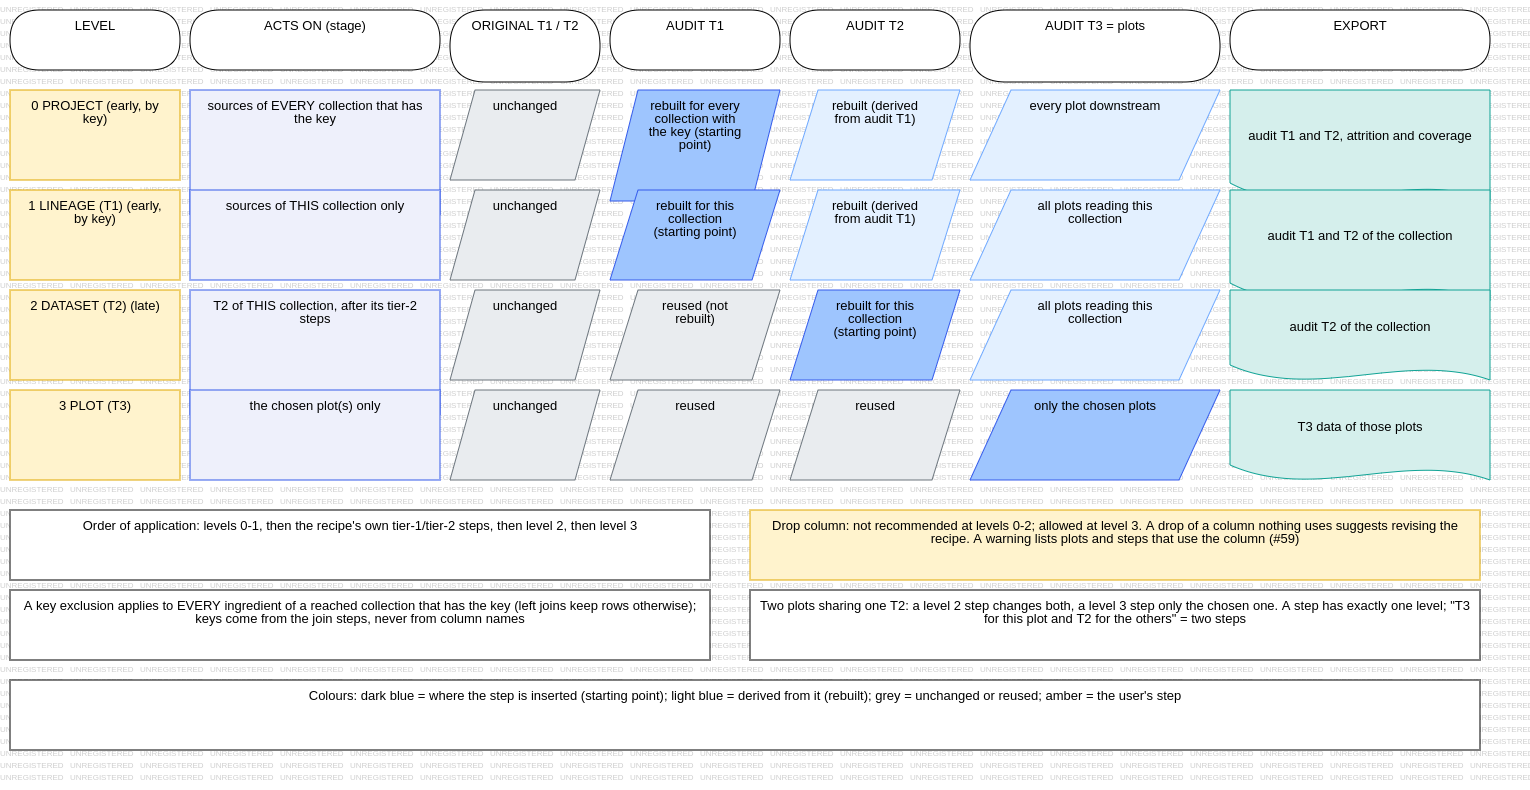
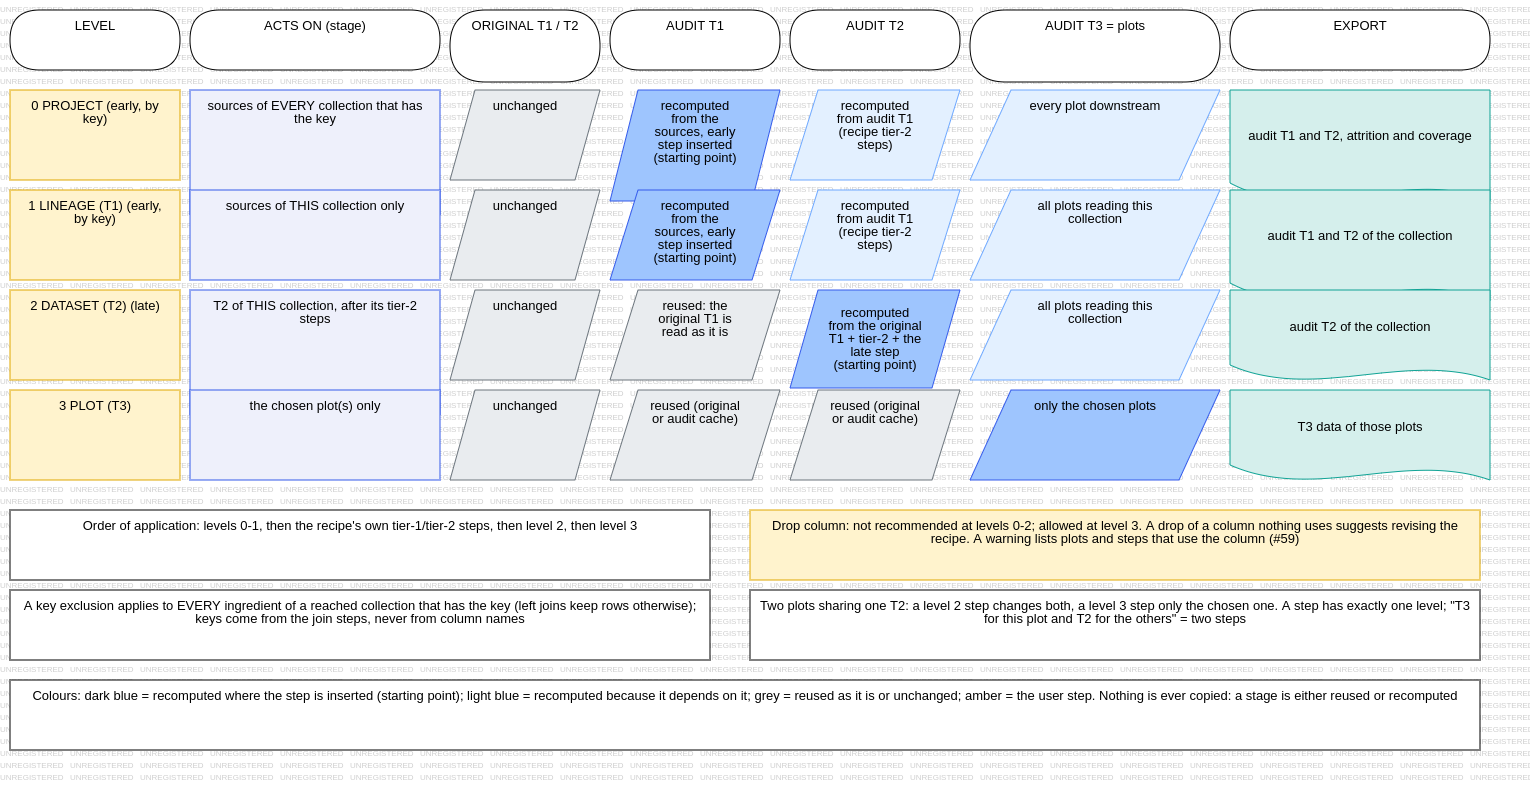
docs(uml): Apply button in the new-step dialog, Compare toggle, recomputed instead of rebuilt
Apply (and Cancel) in the dialog gives the user time to read the information; there is no
draft list. Compare is an on/off toggle gated by comparison_mode_enabled (checked in code).
Effect, cache and flow diagrams say recomputed or reused, never copied. The redundant audit
panel sketch is removed from the repository and renamed OBSOLETE-TO-DELETE in the model (the
script cannot delete it; delete it in StarUML).

Refs: evezeyl/SPARMVET_VIZ#60

diff --git a/.claude/design/home_audit_steps.md b/.claude/design/home_audit_steps.md
@@ -22,7 +22,7 @@ repeats on many rows and is not unique in the original data; the audit works on 
 | **Audit T1 / audit T2** | The same stages rebuilt from a copy of the original with the audit steps applied. |
 | **Audit T3 (of a plot)** | One plot's frame: its audit T2 plus the steps made for that plot only. Derived. Exported as T3 data when a plot has its own steps. |
 | **Filters** | The filter form (same widgets everywhere). In Exploration it makes a preview; in the Audit workspace the same form creates an audit step (section 3). |
-| **Validated step** | An audit step applied with its reason. No draft: a step cannot be applied without a reason, and removing a wrong step is the undo. |
+| **Validated step** | An audit step applied with its reason. No draft list: a step cannot be applied without a reason and the Apply press, and removing a wrong step is the undo. |
 
 Lineage chain used everywhere (workspace and diagrams): `original T1 -> audit T1 -> audit T2 -> audit T3 (plot = xx)`.
 
@@ -35,7 +35,7 @@ The audit mode is not a new central page. It reuses what HOME already has, so ve
 | **Left sidebar, Filters panel** | the shared filter form. Exploration: button "Add to preview". Audit mode: button **"Create audit step"**. Alerts (notification log) and processing issues stay in the left sidebar as today (checked in `home_theater.py`). |
 | **Centre (kept as small as possible)** | the same plot and data components as today, fed with the audit data: the **audited plot** (audit T3), the audit table and **Compare** (original Result plot \| audited plot). Exploration is minimised (exclusive: opening one minimises the other). |
 | **Right sidebar = the existing Pipeline Audit panel** (slot `audit_stack`, already gated by the sandbox flag) | the **step list** (kind, reach, reason, initials, date, status, delete; Undo last, Revert to step N, Remove all), the **lineage chain** (drawn vertically to fit), the list of **what is affected**, and a button to open the project overview. Today this panel holds the audit nodes and the apply tools (checked in `home_theater.py` and `sidebar_registry.py`); processing issues are in the LEFT sidebar, not here. |
-| **Dialog "New audit step"** (replaces today's propagation dialog) | the reach selector (section 5), the stage choice when needed, the chain drawing and affected list for the step about to be made, the **reason** (required) and Apply. |
+| **Dialog "New audit step"** (replaces today's propagation dialog) | the reach selector (section 5), the stage choice when needed, the chain drawing and affected list for the step about to be made, the **reason** (required) and two buttons, **Cancel** and **Apply**. |
 | **Dialog / wide view "Project overview"** | collections x steps and the coverage check (too wide for the sidebar). |
 
 - **Gating:** the audit mode, the "Create audit step" button, the Audit panel and the dialogs are all gated by the
@@ -45,13 +45,20 @@ The audit mode is not a new central page. It reuses what HOME already has, so ve
   when the user returns). The same form widgets are reused; **under the hood the two behave differently**
   (preview = lazy filter on the shown table; audit step = rebuild through the lineage, cached). A short note in
   the code and the docs states the difference.
-- To make a step the user chooses the kind, the reach and the reason (sections 4-5). The step is applied at
-  once. If it was a mistake, delete it from the step list (section 10).
+- To make a step the user chooses the kind, the reach and the reason (sections 4-5), reads the information in
+  the dialog (chain, affected plots, warnings, rows before/after) and presses **Apply** (enabled only when a
+  reach is chosen and a reason is written; **Cancel** closes the dialog and changes nothing). Apply is the pause
+  that lets the user read before committing. **There is no draft list and no Apply gate in the Audit panel**: the
+  step is applied when Apply is pressed in the dialog. If it was a mistake, delete it from the step list
+  (section 10).
+- **Compare** (original Result plot next to the audited plot) is a **toggle, on or off**, shown only when the
+  existing flag `comparison_mode_enabled` is on (checked in `home_theater.py`, `app_features_validator.py`). Off:
+  the audited plot uses the full width.
 - **Plots are not rebuilt in a new place.** The central plot and table handlers are the ones used today (My view
   already reads another data source for the same plots; Compare already has two panes). Only the data source
   changes to the audit data.
 
-Wireframes of the screen with audit mode off and on: `UI-HOME-EXPLORATION` and `UI-HOME-AUDIT` (see also `HOME-AUDIT-PANEL`).
+Wireframes of the screen with audit mode off and on: `UI-HOME-EXPLORATION` and `UI-HOME-AUDIT`.
 
 ## 4. Kinds of step
 

diff --git a/.claude/design/uml_model_plan.md b/.claude/design/uml_model_plan.md
@@ -366,3 +366,8 @@ to build or fix. Boxes with "(detail: X)" carry the tag `detail = X`.
 show the target screen; `UI-HOME The screen as built today` keeps the screen before the redesign. In the
 wireframes light blue = new or changed, darker blue = audit mode, grey = notes. Open in them: where the mode switch
 sits, and what stays of the existing right panel (Inherited Tier 2 nodes, filter inventory).
+
+**Update 2026-11-11 (later):** `HOME-AUDIT-PANEL` removed (redundant with `UI-HOME-EXPLORATION` and `UI-HOME-AUDIT`).
+In the effect and cache diagrams "rebuilt" is replaced by "recomputed"; nothing is copied, a stage is reused or
+recomputed. The new-step dialog has Cancel and Apply (no draft list). Compare is a toggle gated by
+`comparison_mode_enabled`.
